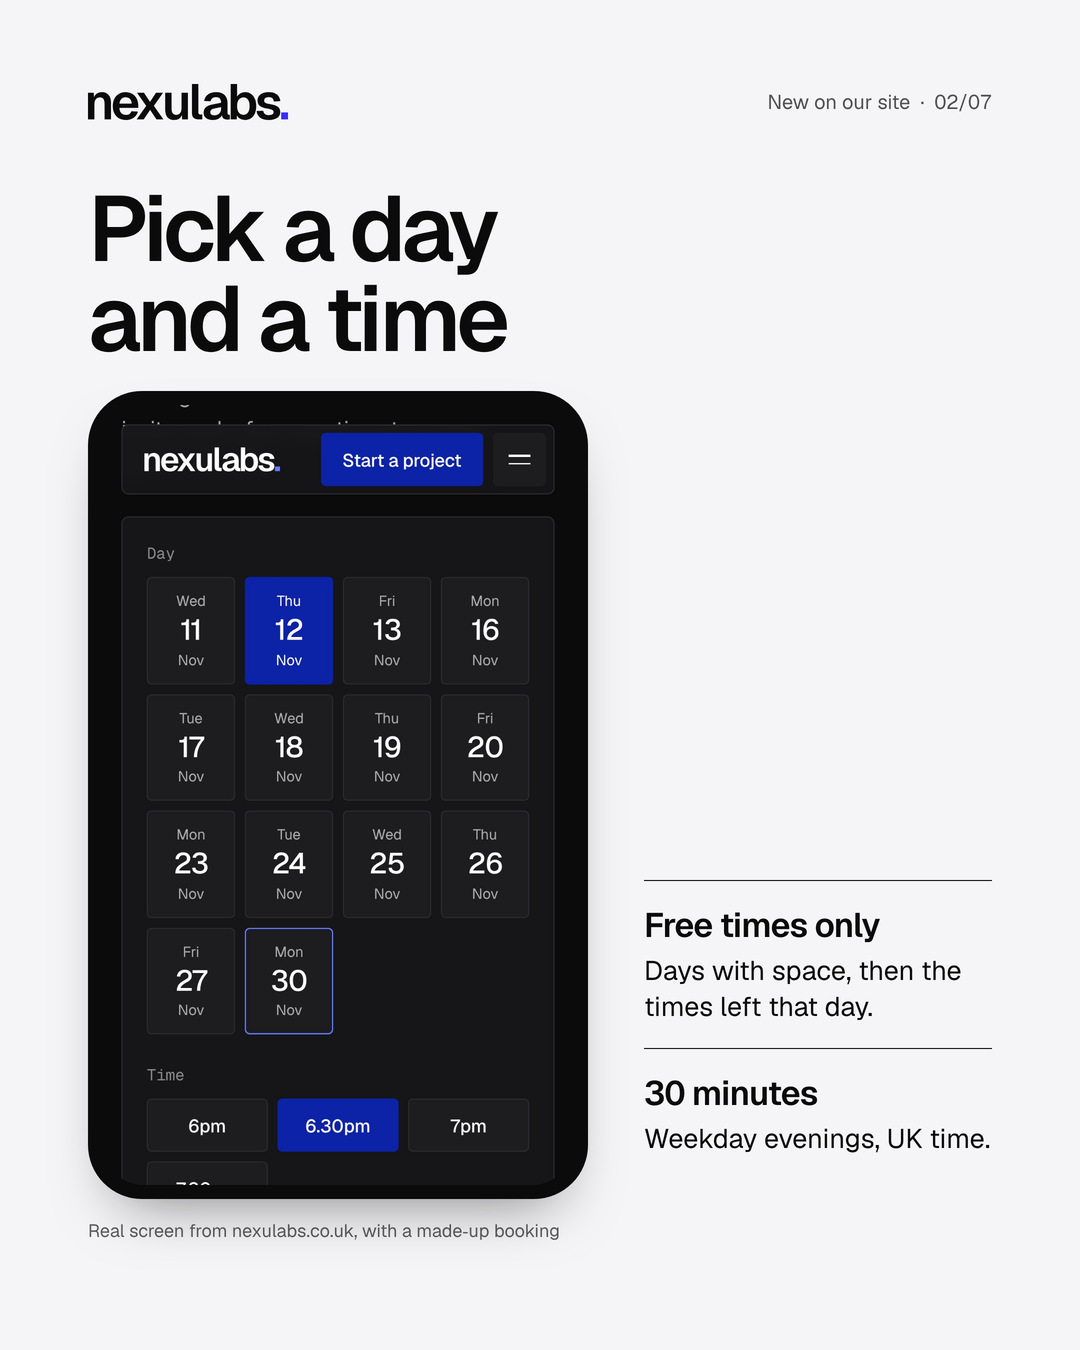
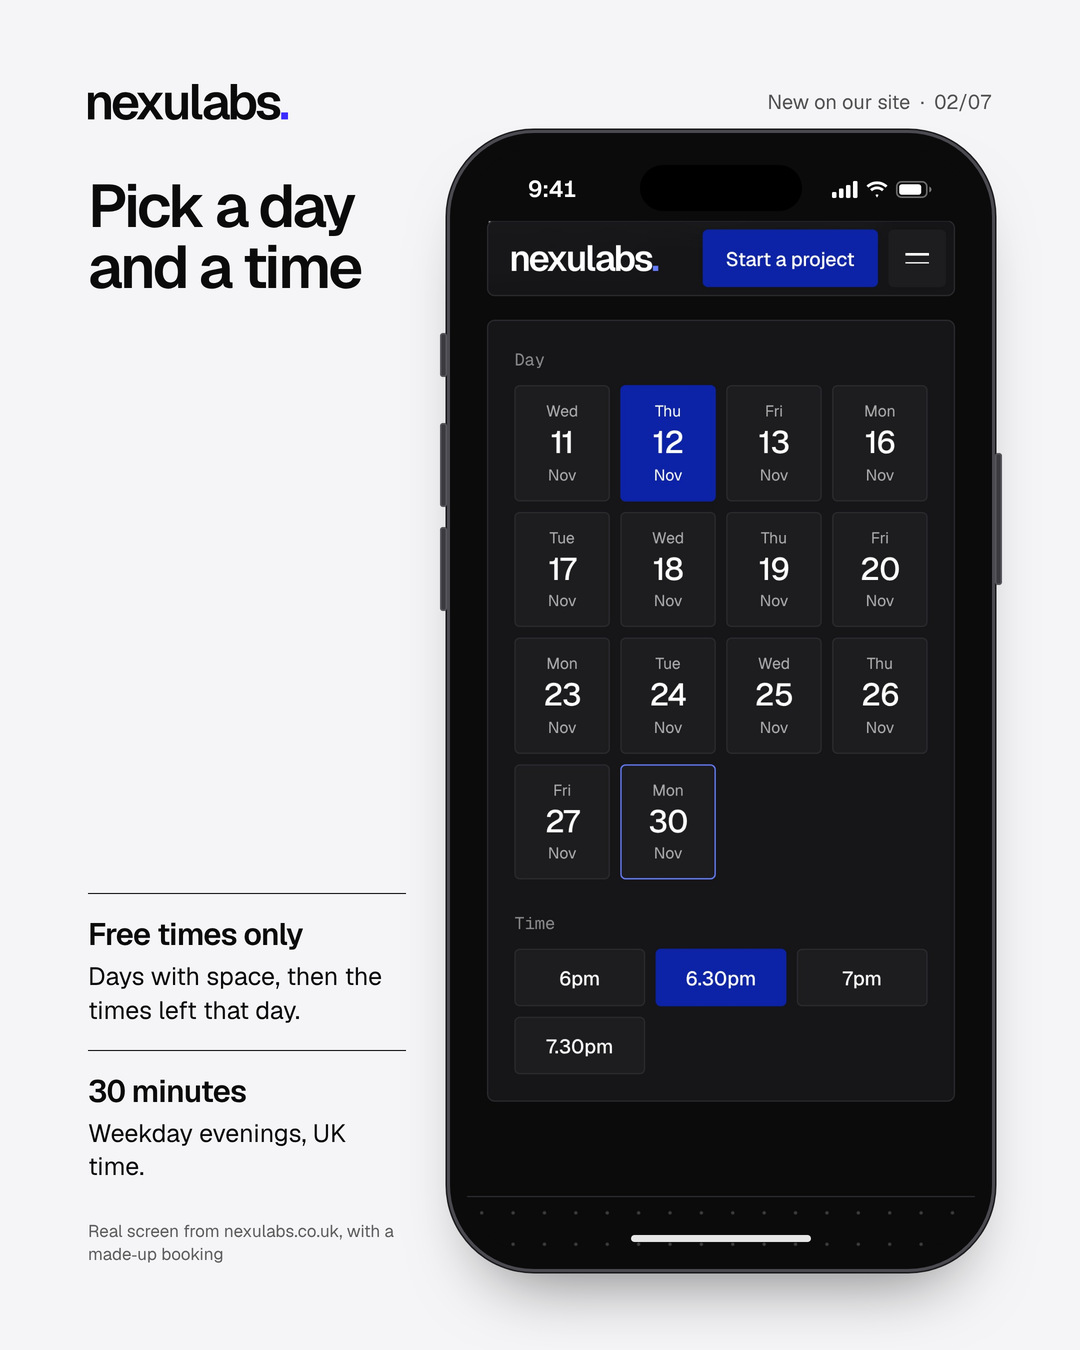
Book a call post: a full-size, realistic phone for the real screens
Claude-Session: https://claude.ai/code/session_01WbU1ofQgnFNfQWqVaMhiZ2

diff --git a/render.py b/render.py
@@ -5,7 +5,7 @@ Usage:  python3 render.py posts/<id>/post.json
 Writes  posts/<id>/slide-01.jpg ... (1080x1350, 4:5 portrait)
 
 Post-level "format": "story" renders 1080x1920 Instagram Stories (one image per slide).
-Slide types: screen (product UI: table | board | record | phone | shot: a real screenshot "image" in the phone frame, optional "top" offset), cover, stat, bars, hbars, list, quote, cta, compare, browser, palette, flow, photo (Unsplash background: "image", "credit", optional "shade": full|blue, "focus")
+Slide types: screen (product UI: table | board | record | phone | shot: a real screenshot "image" in a full-size realistic phone, optional "crop", "bar", "bar_bg"), cover, stat, bars, hbars, list, quote, cta, compare, browser, palette, flow, photo (Unsplash background: "image", "credit", optional "shade": full|blue, "focus")
 browser "site" may include "nav_text" (e.g. a phone number shown in the mock header); compare, list and flow may include "title_size".
 Text markup: *word* -> accent colour. Line breaks with \n.
 Themes: "ink" (dark), "paper" (light), "blue" (brand blue) or "lilac" (#E9E7FF).
@@ -289,6 +289,25 @@ p.lead{{font-size:31px;line-height:1.42;letter-spacing:-.01em;opacity:.78;max-wi
 
 
 CSS += '\n/* ===== style: product (Lee, 8 Nov 2026): flat colour + real product screens. No gradients, glows, grain, grids or patterns. ===== */\n.st-product .grid,.st-product .glow,.st-product .grain,.st-product .deco{display:none}\n.lilac{background:#E9E7FF;color:#0B0B0C;--acc:#3B2BFF;--fg:#0B0B0C}\n.st-product .meta{font-family:Text;font-size:20px;letter-spacing:0;text-transform:none;opacity:.7}\n.st-product .kicker{font-family:Text;font-size:22px;letter-spacing:0;text-transform:none;opacity:.75}\n.st-product .kicker:before{display:none}\n.st-product h1{letter-spacing:-.045em}\n.st-product .swipe b{border:none;width:auto;height:auto}\n.st-product .foot{font-family:Text;font-size:18px;opacity:.65}\n.st-product .card.good{background:rgba(59,43,255,.06)}\n.st-product.blue .card.good{background:rgba(255,255,255,.1)}\n.st-product .bw{border-radius:18px;border:none;box-shadow:0 30px 60px -32px rgba(0,0,0,.45)}\n.st-product .pin{box-shadow:none}\n/* screen slide: headline + a believable UI window */\n.screen h2{font-size:92px;letter-spacing:-.045em;line-height:.98}\n.screen p.lead{margin-top:24px;font-size:30px}\n.win{margin-top:auto;background:#fff;color:#0B0B0C;border-radius:18px;overflow:hidden;box-shadow:0 30px 60px -32px rgba(0,0,0,.45);font-family:Text}\n.paper .win,.lilac .win{box-shadow:0 0 0 1.5px rgba(11,11,12,.08),0 30px 60px -36px rgba(0,0,0,.35)}\n.win .wbar{display:flex;align-items:center;justify-content:space-between;padding:22px 28px;border-bottom:1px solid #E8E8EC}\n.win .wbar b{font-family:Disp;font-size:26px;font-weight:600;letter-spacing:-.02em}\n.win .tabs{display:flex;gap:8px;font-size:19px;color:#6b6b72}\n.win .tabs span{padding:6px 14px;border-radius:8px}.win .tabs .a{background:#F1F1F4;color:#0B0B0C}\n.win table{width:100%;border-collapse:collapse;font-size:25px}\n.win th{text-align:left;font-weight:500;color:#8a8a92;font-size:18px;padding:18px 26px 12px;border-bottom:1px solid #EEE}\n.win td{padding:24px 26px;border-bottom:1px solid #F0F0F3;white-space:nowrap}\n.win tr:last-child td{border-bottom:none}\n.win td.mono{font-family:Mono;font-size:18px;color:#6b6b72}.win td.dim{color:#55555c}\n.win tr.hl td{background:#F5F4FF}\n.pill{display:inline-block;padding:5px 14px;border-radius:999px;font-size:18px;font-weight:500;line-height:1.3}\n.pill.blue{background:#EEF0FF;color:#3B2BFF}.pill.solid{background:#3B2BFF;color:#fff}\n.pill.green{background:#E6F4EA;color:#1F7A3A}.pill.grey{background:#F2F2F4;color:#6b6b72}.pill.ink{background:#0B0B0C;color:#fff}\n.win .board{display:flex;gap:14px;padding:22px 18px 30px;background:#F6F6F8}\n.win .lane{flex:1;min-width:0}\n.win .lane h4{font-size:21px;font-weight:600;color:#55555c;display:flex;justify-content:space-between;padding:4px 6px 14px}\n.win .lane h4 span{color:#9a9aa2;font-weight:500}\n.win .kc{background:#fff;border-radius:12px;padding:22px 20px 20px;margin-bottom:12px;box-shadow:0 0 0 1px #E8E8EC}\n.win .kc b{display:block;font-size:26px;line-height:1.15;font-weight:600;letter-spacing:-.01em}\n.win .kc small{display:block;font-size:21px;color:#6b6b72;margin-top:6px}\n.win .kc.hl{box-shadow:0 0 0 2px #3B2BFF}\n.win .kc .pill{margin-top:14px;font-size:18px}\n.win .rec{display:flex}\n.win .rec .fields{flex:1;padding:26px 30px;border-right:1px solid #EEE}\n.win .rec .f{padding:14px 0;border-bottom:1px solid #F2F2F4}.win .rec .f:last-child{border:none}\n.win .rec .f small{display:block;font-size:19px;color:#8a8a92}\n.win .rec .f span{display:block;font-size:28px;margin-top:4px}\n.win .rec .f span .pill{display:inline-block;font-size:20px;margin-top:4px}\n.win .rec .tl{flex:1.2;padding:26px 30px}\n.win .rec .tl h5{font-size:17px;font-weight:500;color:#8a8a92;margin-bottom:8px}\n.win .rec .ev{display:flex;gap:16px;padding:16px 0;font-size:25px;line-height:1.35;align-items:baseline}\n.win .rec .ev i{font-style:normal;font-family:Mono;font-size:17px;color:#8a8a92;min-width:64px}\n.win .rec .ev.hl span{color:#3B2BFF;font-weight:500}\n.phonewrap{margin-top:auto;display:flex;gap:56px;align-items:flex-end}\n.phone{width:420px;flex:none;border-radius:54px;background:#0B0B0C;padding:14px;box-shadow:0 30px 60px -30px rgba(0,0,0,.5)}\n.phone .scr{background:#fff;color:#0B0B0C;border-radius:42px;overflow:hidden;height:760px;padding:58px 30px 30px;position:relative}\n.phone .scr.shot:before{display:none}\n.phone .scr:before{content:"";position:absolute;top:16px;left:50%;width:110px;height:30px;margin-left:-55px;border-radius:15px;background:#0B0B0C}\n.phone .pnav{display:flex;justify-content:space-between;align-items:center;font-family:Disp;font-weight:700;font-size:22px;letter-spacing:-.02em}\n.phone .pnav u{width:30px;height:3px;background:#0B0B0C;box-shadow:0 8px 0 #0B0B0C,0 -8px 0 #0B0B0C;text-decoration:none}\n.phone .ph{font-family:Disp;font-weight:600;font-size:40px;letter-spacing:-.035em;line-height:1.04;margin-top:44px}\n.phone .pl{font-size:19px;color:#55555c;margin-top:14px;line-height:1.4}\n.phone .pb{margin-top:24px;background:#3B2BFF;color:#fff;border-radius:12px;padding:18px;text-align:center;font-weight:600;font-size:20px}\n.phone .pb2{margin-top:10px;border:1.5px solid #D8D8DE;border-radius:12px;padding:16px;text-align:center;font-weight:600;font-size:20px}\n.phone .pi{margin-top:22px;border-top:1px solid #EEE}\n.phone .pi div{padding:14px 0;border-bottom:1px solid #EEE;font-size:19px;display:flex;justify-content:space-between}\n.phone .pi div span{color:#8a8a92}\n.phone .pf{margin-top:26px}\n.phone .pf div{margin-bottom:18px}\n.phone .pf small{display:block;font-size:17px;font-weight:600;color:#0B0B0C;margin-bottom:8px}\n.phone .pf span{display:block;border:1.5px solid #C9C9D1;border-radius:10px;padding:14px 16px;font-size:19px;color:#55555c}\n.phonewrap .notes{flex:1;padding-bottom:20px}\n.phonewrap .notes div{padding:22px 0;border-top:1.5px solid currentColor;font-size:27px;line-height:1.35}\n.phonewrap .notes div b{display:block;font-family:Disp;font-weight:600;font-size:34px;letter-spacing:-.025em;margin-bottom:4px}\n.excap{font-size:18px;opacity:.65;margin-top:20px}\n'
+CSS += """
+/* shot: a real phone, full size: the phone on the right, the headline and notes beside it */
+.dv{flex:1;display:flex;gap:44px;min-height:0}
+.dv-txt{flex:1;display:flex;flex-direction:column;padding-top:56px;min-width:0}
+.screen .dv-txt h2{font-size:60px;line-height:1.02;letter-spacing:-.045em}
+.dv-notes{margin-top:auto}
+.dv-notes div{padding:20px 0 22px;border-top:1.5px solid currentColor;font-size:25px;line-height:1.35}
+.dv-notes div b{display:block;font-family:Disp;font-weight:600;font-size:31px;letter-spacing:-.025em;margin-bottom:4px}
+.dv .excap{margin-top:14px;font-size:17px;line-height:1.35}
+.dv-phone{position:relative;flex:none;align-self:center;width:542px;height:1136px;margin:-34px 0 -50px;border-radius:84px;padding:16px;background:#0B0B0C;box-shadow:0 0 0 3px #4A4A50,0 0 0 4.5px #1C1C1F,0 40px 70px -34px rgba(0,0,0,.55)}
+.dv-b{position:absolute;width:7px;border-radius:3px;background:#3A3A3F;box-shadow:inset 0 0 0 1.5px #55555B}
+.dv-b1{left:-10px;top:200px;height:44px}.dv-b2{left:-10px;top:290px;height:84px}.dv-b3{left:-10px;top:394px;height:84px}.dv-b4{right:-10px;top:320px;height:132px}
+.dv-scr{position:relative;height:100%;border-radius:68px;overflow:hidden;display:flex;flex-direction:column}
+.dv-bar{position:relative;height:72px;flex:none;display:flex;align-items:center;justify-content:space-between;padding:8px 44px 0 62px;font-family:Text;font-weight:600;font-size:23px;letter-spacing:-.01em}
+.dv-bar span{display:flex;gap:7px;align-items:center}
+.dv-isl{position:absolute;left:50%;top:16px;width:162px;height:46px;margin-left:-81px;border-radius:23px;background:#000}
+.dv-img{flex:1;background-repeat:no-repeat;background-size:100% auto}
+.dv-home{position:absolute;left:50%;bottom:11px;width:180px;height:7px;margin-left:-90px;border-radius:4px;opacity:.9}
+"""
 
 PALETTES = {
     # c1 = base, c2 = brand blue family, c3/c4 = highlight pair (used for gradient text & accents)
@@ -626,10 +645,21 @@ def build(slide, idx, total, series, style="studio"):
 {'' if sc.get("button_after") else btns}
 {(f'<div class="pf">{fitems}</div>' if sc.get("form") else f'<div class="pi">{items}</div>') if items else ''}{btns if sc.get("button_after") else ''}</div></div><div class="notes">{notes}</div></div>"""
         elif kind == "shot":
-            # a real screenshot (from our own website or app, never a client's live data) in the phone frame
+            # a real screenshot (from our own website or app, never a client's live data) in a real phone, full size
             img = (Path(_POST_DIR) / sc["image"]).resolve().as_uri()
             notes = "".join(f'<div><b>{md(a)}</b>{md(b)}</div>' for a, b in slide.get("notes", []))
-            win = f'<div class="phonewrap"><div class="phone" style="width:{sc.get('width', 500)}px"><div class="scr shot" style="padding:0;height:{sc.get('height', 780)}px;background:#0B0B0C url({img}) no-repeat center {sc.get('top', 'top')} / 100% auto"></div></div><div class="notes">{notes}</div></div>'
+            light = sc.get("bar", "dark") == "light"   # light: white status bar (the screen under it is light)
+            ink = "#0B0B0C" if light else "#fff"
+            bar = f'''<div class="dv-bar" style="background:{sc.get('bar_bg', '#fff' if light else '#0B0B0C')};color:{ink}"><b>9:41</b><i class="dv-isl"></i><span>
+<svg width="26" height="17" viewBox="0 0 26 17"><rect x="0" y="11" width="4.5" height="6" rx="1.2" fill="{ink}"/><rect x="7" y="7.5" width="4.5" height="9.5" rx="1.2" fill="{ink}"/><rect x="14" y="4" width="4.5" height="13" rx="1.2" fill="{ink}"/><rect x="21" y="0" width="4.5" height="17" rx="1.2" fill="{ink}"/></svg>
+<svg width="24" height="17" viewBox="0 0 24 17"><path d="M12 3.2c3.3 0 6.3 1.3 8.6 3.4l1.9-2C19.7 2 16 .4 12 .4S4.3 2 1.5 4.6l1.9 2C5.7 4.5 8.7 3.2 12 3.2zm0 5.1c1.9 0 3.7.7 5 1.9l1.9-2c-1.9-1.7-4.3-2.7-6.9-2.7S7 6.5 5.1 8.2l1.9 2c1.3-1.2 3.1-1.9 5-1.9zm0 5.1c.6 0 1.1.2 1.5.6L12 16.6l-1.5-2.6c.4-.4.9-.6 1.5-.6z" fill="{ink}"/></svg>
+<svg width="36" height="17" viewBox="0 0 36 17"><rect x=".8" y=".8" width="30" height="15.4" rx="4.6" fill="none" stroke="{ink}" stroke-opacity=".4" stroke-width="1.6"/><rect x="3.2" y="3.2" width="22" height="10.6" rx="2.6" fill="{ink}"/><path d="M33.3 5.6v5.8c1.3-.5 2.2-1.6 2.2-2.9s-.9-2.4-2.2-2.9z" fill="{ink}" fill-opacity=".45"/></svg></span></div>'''
+            crop = sc.get("crop", 0) * 510 / 390   # CSS px of the 390px-wide page, cut from the top
+            win = f'''<div class="dv"><div class="dv-txt"><h2>{md(slide['title'])}</h2><div class="dv-notes">{notes}</div>
+{f'<p class="excap">{md(slide.get("caption"))}</p>' if slide.get("caption") else ''}</div>
+<div class="dv-phone"><i class="dv-b dv-b1"></i><i class="dv-b dv-b2"></i><i class="dv-b dv-b3"></i><i class="dv-b dv-b4"></i>
+<div class="dv-scr" style="background:{sc.get('bar_bg', '#fff' if light else '#0B0B0C')}">{bar}<div class="dv-img" style="background-image:url({img});background-position:center -{crop:.1f}px"></div><i class="dv-home" style="background:{ink}"></i></div></div></div>'''
+            return frame(slide, idx, total, series, win, src(slide), "", style)
         else:
             raise ValueError(f"unknown screen kind {kind}")
         cap = slide.get("caption", "Example screen")

diff --git a/PLAYBOOK.md b/PLAYBOOK.md
@@ -357,7 +357,7 @@ Lee, 9 Nov 2026: *"I have no idea what this image has to do with domain names...
 Follow "Sound like a person" above. Roughly: an opening line that isn't a cliché, a couple of short paragraphs with the actual point, a light mention of what Nexulabs does (not every time), then 3–5 hashtags. Keep it under 120 words.
 
 ## Slide spec (post.json)
-See `render.py` docstring. Post-level `"style"` = one of the five looks, and slide `theme`s from that look. **`screen`** (the default hero): `title`, optional `sub`/`kicker`/`caption` (defaults to "Example screen"), and `screen` = `{kind: table, title, tabs, columns, col_class (mono/dim), rows, pills {label: blue|solid|green|grey|ink}, highlight [row idx]}` or `{kind: board, title, tabs, pills, lanes: [{name, cards: [[title, sub, pill, highlight?]]}]}` or `{kind: record, title, tabs, pills, fields: [[label, value]], timeline_title, timeline: [[time, text]], highlight}` or `{kind: phone, brand, headline, lede, button, button2, items: [[label, price]]}` with slide-level `notes: [[title, text]]`. Or `{kind: shot, image: "shots/x.jpg", top: "0%"-"100%", width, height}`: a **real screenshot** of our own website or app (never a client's live data) in the phone frame, with `notes` beside it. Take shots at 390px wide and 3x with a made-up booking or record, and set the slide's `caption` to say it's a real screen with made-up details. Working example: `design-samples/test/post.json`. Other types: cover, stat, bars, hbars, list, quote, cta, compare (instead/try), browser (website mockup with numbered pins), palette (colour swatches), flow (numbered steps). `*word*` = accent. `\n` = line break. Optional: `size` for headline/number size, `glow`, `glow_low`, `highlight`, `unit`, `max`.
+See `render.py` docstring. Post-level `"style"` = one of the five looks, and slide `theme`s from that look. **`screen`** (the default hero): `title`, optional `sub`/`kicker`/`caption` (defaults to "Example screen"), and `screen` = `{kind: table, title, tabs, columns, col_class (mono/dim), rows, pills {label: blue|solid|green|grey|ink}, highlight [row idx]}` or `{kind: board, title, tabs, pills, lanes: [{name, cards: [[title, sub, pill, highlight?]]}]}` or `{kind: record, title, tabs, pills, fields: [[label, value]], timeline_title, timeline: [[time, text]], highlight}` or `{kind: phone, brand, headline, lede, button, button2, items: [[label, price]]}` with slide-level `notes: [[title, text]]`. Or `{kind: shot, image: "shots/x.jpg", crop, bar, bar_bg}`: a **real screenshot** of our own website or app (never a client's live data) in a full-size, realistic phone (metal edge, side buttons, Dynamic Island, status bar, home bar) on the right of the slide, with the title, `notes` and caption in a column beside it (Lee asked for a bigger phone that looks like a phone, 9 Nov 2026). `crop` cuts that many CSS px off the top of the 390px page (to lose half-cut text above a floating nav); `bar: "light"` gives a white status bar for a light screen, `bar_bg` its colour. Keep titles short: the column is narrow, so break them by hand with `\n`. Take shots at 390px wide and 3x with a made-up booking or record, and set the slide's `caption` to say it's a real screen with made-up details. Working example: `design-samples/test/post.json`. Other types: cover, stat, bars, hbars, list, quote, cta, compare (instead/try), browser (website mockup with numbered pins), palette (colour swatches), flow (numbered steps). `*word*` = accent. `\n` = line break. Optional: `size` for headline/number size, `glow`, `glow_low`, `highlight`, `unit`, `max`.
 
 ## Quality check before publishing
 - Render, then build a contact sheet and look at every slide: no text overflow, clipping, orphaned single words, overlapping elements, or awkward line breaks; numbers match the sources; the accent is used sparingly.
